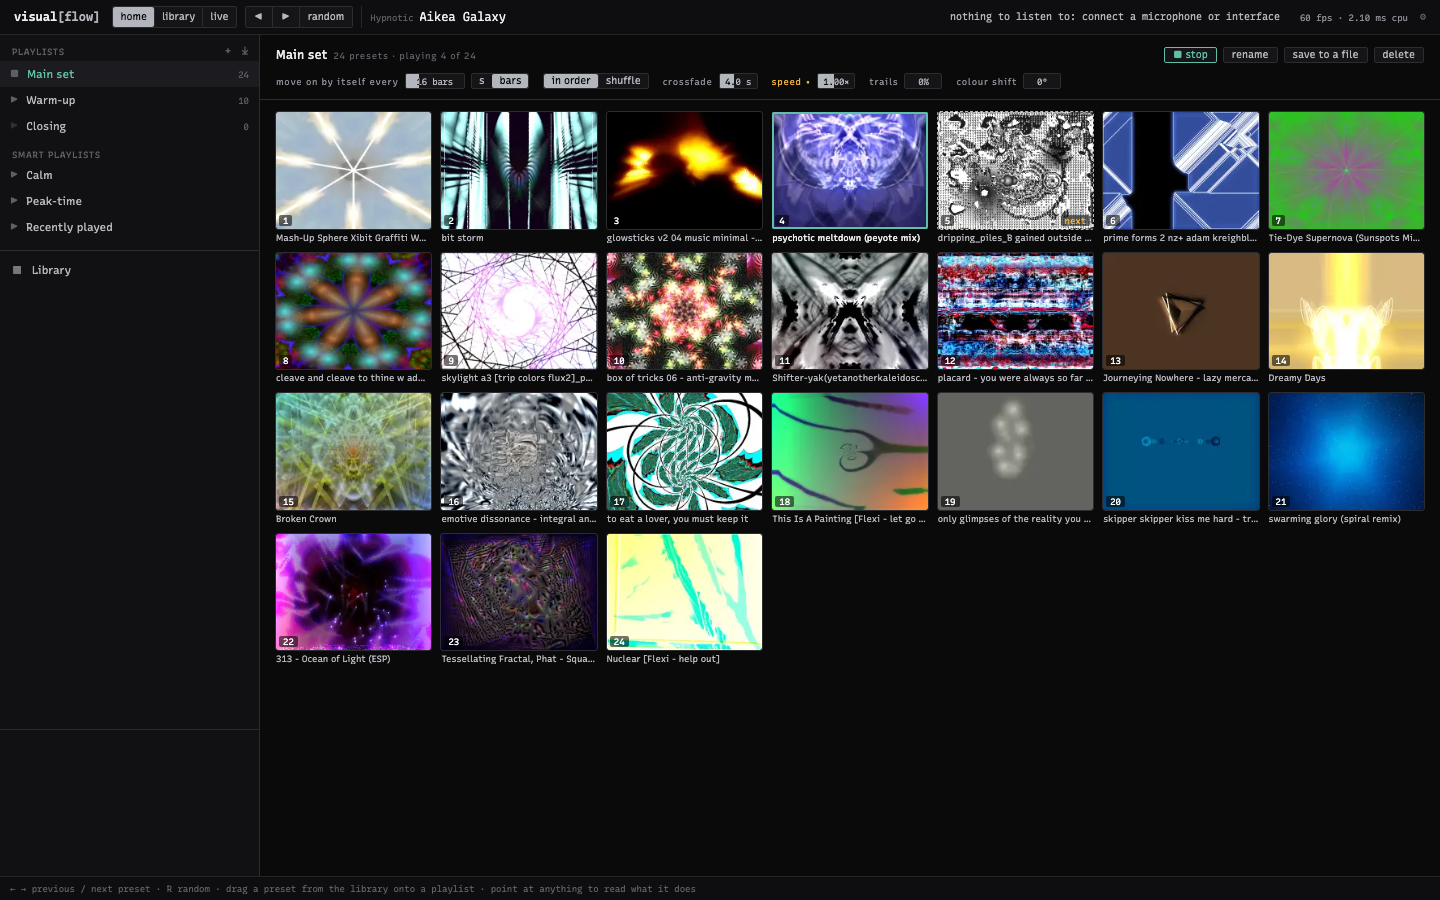
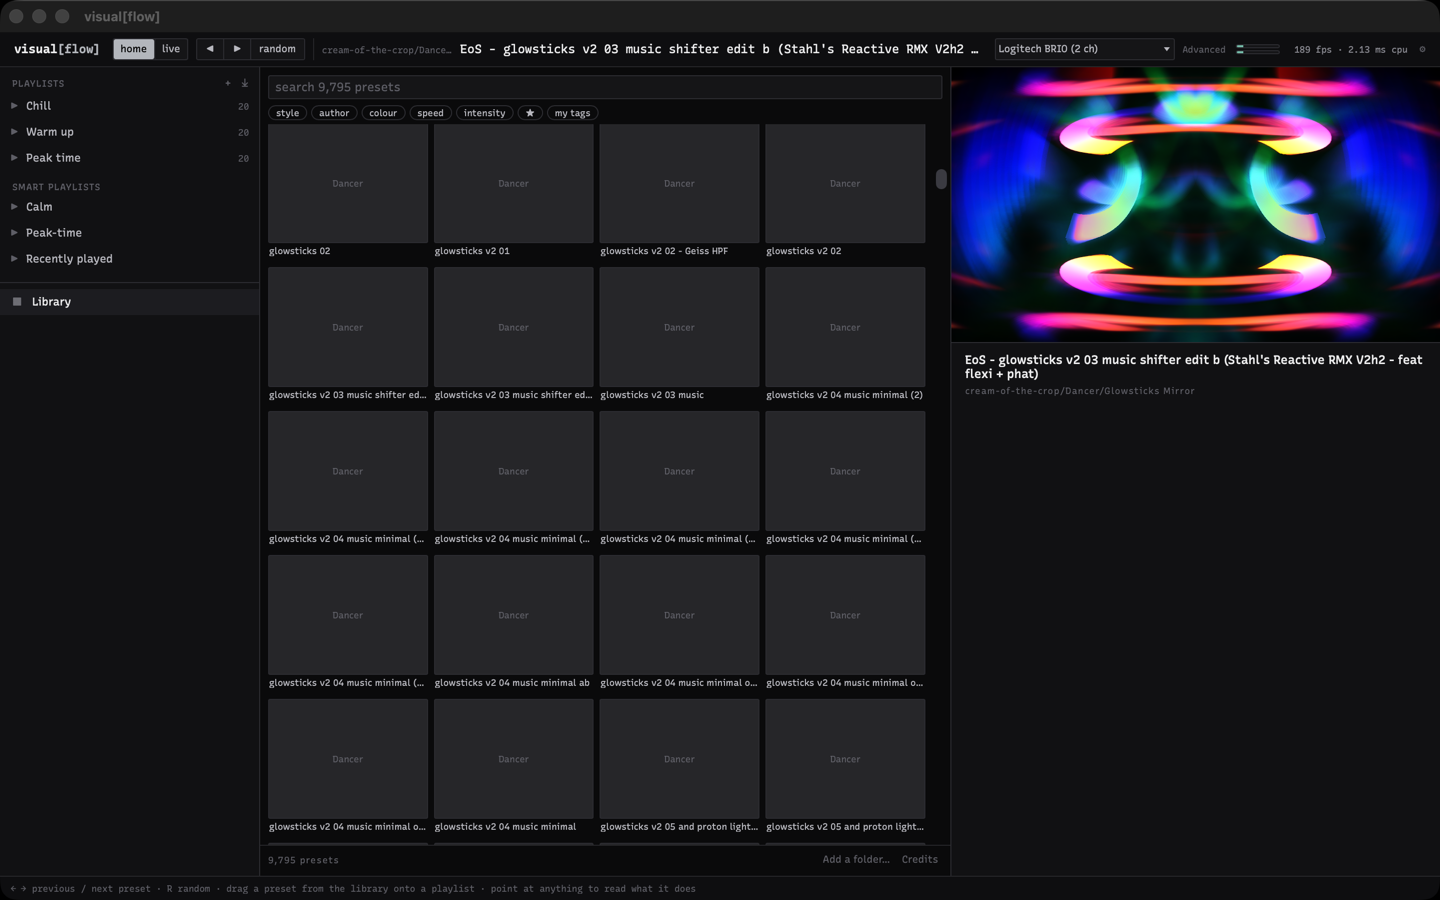
Home: the preset's name, folder and where it comes from under the preview in a wide window; captures at 1440, 800 and 560 px

diff --git a/app/src/home.css b/app/src/home.css
@@ -38,12 +38,28 @@
   background: var(--panel);
   border-left: 1px solid var(--bd3);
 }
+/* Under the preview in a wide window: the preset's name, its folder, and where it comes from. */
+.home .home-stage-says {
+  display: flex;
+  flex-direction: column;
+  gap: 4px;
+  padding: 10px 14px;
+  min-width: 0;
+}
+.home .home-stage-says p {
+  margin: 0;
+  overflow-wrap: anywhere;
+}
+.home .home-stage-name {
+  color: var(--fg);
+  font-size: var(--text-lead);
+  font-weight: var(--weight-medium);
+}
+.home .home-stage-group,
 .home .home-stage-from {
-  margin: 8px 12px;
   color: var(--caption);
   font-size: var(--text-label);
   letter-spacing: var(--track-label);
-  overflow-wrap: anywhere;
 }
 .home .home-stage-from:empty {
   display: none;
@@ -506,7 +522,7 @@
     width: auto;
     height: min(32vh, calc((100vw - var(--home-side)) * 9 / 16));
   }
-  .home .home-stage-from {
+  .home .home-stage-says {
     display: none;
   }
   .app.home main.home-main {

diff --git a/app/src/Home.tsx b/app/src/Home.tsx
@@ -170,7 +170,15 @@ export function Home({ start, onMode, library: startOnLibrary = false }: { start
         <div className="home-preview-cell">
           <Preview className="home-preview" />
         </div>
-        <p className="home-stage-from">{playsFrom(deck, playlists)}</p>
+        <div className="home-stage-says">
+          {current && (
+            <p className="home-stage-name" title={current.group ? `${current.group} / ${current.name}` : current.name}>
+              {current.name}
+            </p>
+          )}
+          {current?.group && <p className="home-stage-group">{current.group}</p>}
+          <p className="home-stage-from">{playsFrom(deck, playlists)}</p>
+        </div>
       </section>
       <main className="home-main">
         <SettingsNotes />

diff --git a/app/src/Home.dom.test.tsx b/app/src/Home.dom.test.tsx
@@ -180,7 +180,8 @@ describe('picking up where the app left off', () => {
     deck = { ...EMPTY_DECK, current: ROWS[2].path };
     await mount();
     expect(sent('open')).toEqual([]);
-    expect(screen.getByTitle('A / c')).toBeTruthy();
+    // Named in the header and under the preview.
+    expect(screen.getAllByTitle('A / c')).toHaveLength(2);
   });
 
   it('shows the filter it picked up in the library, with the deck following it', async () => {
